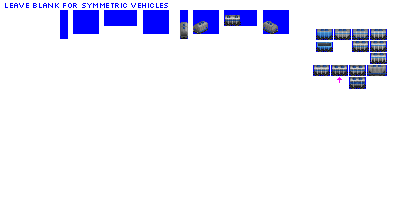
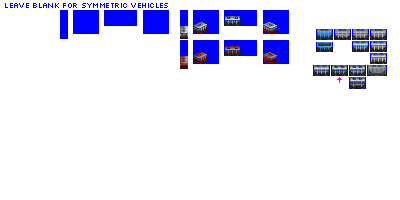
Change: sprites for gen 2A covered hopper car

Changed region(s): [[0.45, 0.09, 0.72, 0.36], [0.57, 0.06, 0.6, 0.12]]

diff --git a/src/vehicles/covered_hopper_cars.py b/src/vehicles/covered_hopper_cars.py
@@ -6,7 +6,8 @@ def main():
     consist = CoveredHopperCarConsist(roster='pony',
                                       base_numeric_id=1270,
                                       gen=2,
-                                      subtype='A')
+                                      subtype='A',
+                                      sprites_complete=True)
 
     consist.add_unit(type=FreightCar,
                      vehicle_length=4,
